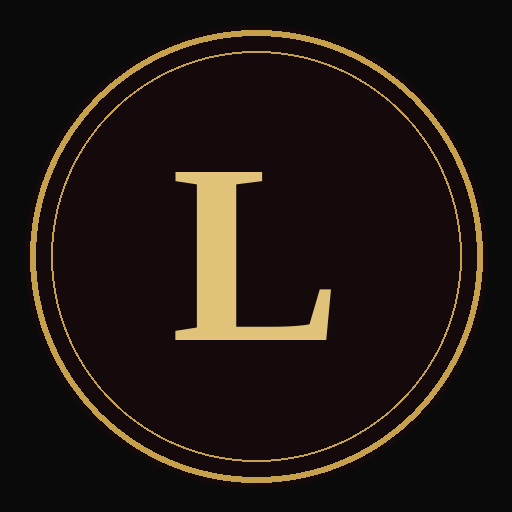
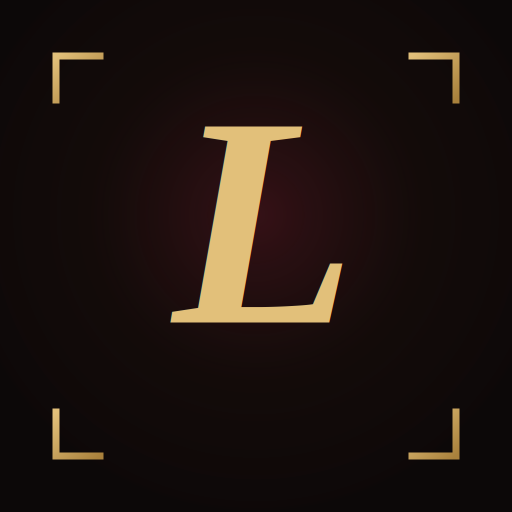
feat: icone definitivo Libretto (monograma L)

diff --git a/app/login/page.js b/app/login/page.js
@@ -1,14 +1,14 @@
-'use client';
+"use client";
 
-import { useState } from 'react';
-import { useRouter } from 'next/navigation';
-import { supabase } from '@/lib/supabaseClient';
-import Card from '@/components/ui/Card';
+import { useState } from "react";
+import { useRouter } from "next/navigation";
+import { supabase } from "@/lib/supabaseClient";
+import Card from "@/components/ui/Card";
 
 export default function LoginPage() {
   const router = useRouter();
-  const [email, setEmail] = useState('');
-  const [senha, setSenha] = useState('');
+  const [email, setEmail] = useState("");
+  const [senha, setSenha] = useState("");
   const [erro, setErro] = useState(null);
   const [carregando, setCarregando] = useState(false);
 
@@ -17,16 +17,19 @@ export default function LoginPage() {
     setErro(null);
     setCarregando(true);
 
-    const { error } = await supabase.auth.signInWithPassword({ email, password: senha });
+    const { error } = await supabase.auth.signInWithPassword({
+      email,
+      password: senha,
+    });
 
     setCarregando(false);
 
     if (error) {
-      setErro('E-mail ou senha incorretos.');
+      setErro("E-mail ou senha incorretos.");
       return;
     }
 
-    router.push('/dashboard');
+    router.push("/dashboard");
   }
 
   return (
@@ -34,8 +37,10 @@ export default function LoginPage() {
       <div className="w-full max-w-sm">
         <div className="text-center mb-8">
           <p className="eyebrow mb-2">Acesso restrito</p>
-          <h1 className="font-display italic text-3xl text-ink">O Livro</h1>
-          <p className="text-sm text-faint mt-2">Não há cadastro público. Contas criadas manualmente.</p>
+          <h1 className="font-display italic text-3xl text-ink">Libretto</h1>
+          <p className="text-sm text-faint mt-2">
+            Não há cadastro público. Contas criadas manualmente.
+          </p>
         </div>
 
         <Card>
@@ -73,11 +78,17 @@ export default function LoginPage() {
             </div>
 
             {erro && (
-              <p className="text-sm text-wine bg-wine/10 border border-wine/30 rounded-sm px-3 py-2">{erro}</p>
+              <p className="text-sm text-wine bg-wine/10 border border-wine/30 rounded-sm px-3 py-2">
+                {erro}
+              </p>
             )}
 
-            <button type="submit" disabled={carregando} className="btn btn-primary w-full mt-2">
-              {carregando ? 'Entrando…' : 'Entrar'}
+            <button
+              type="submit"
+              disabled={carregando}
+              className="btn btn-primary w-full mt-2"
+            >
+              {carregando ? "Entrando…" : "Entrar"}
             </button>
           </form>
         </Card>
